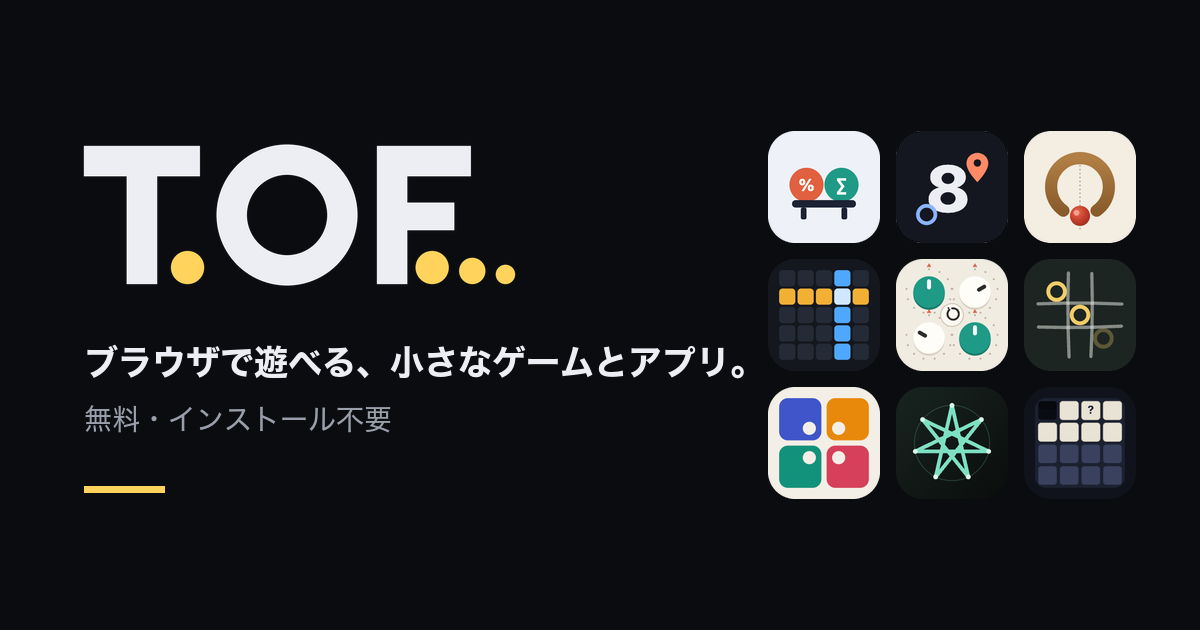
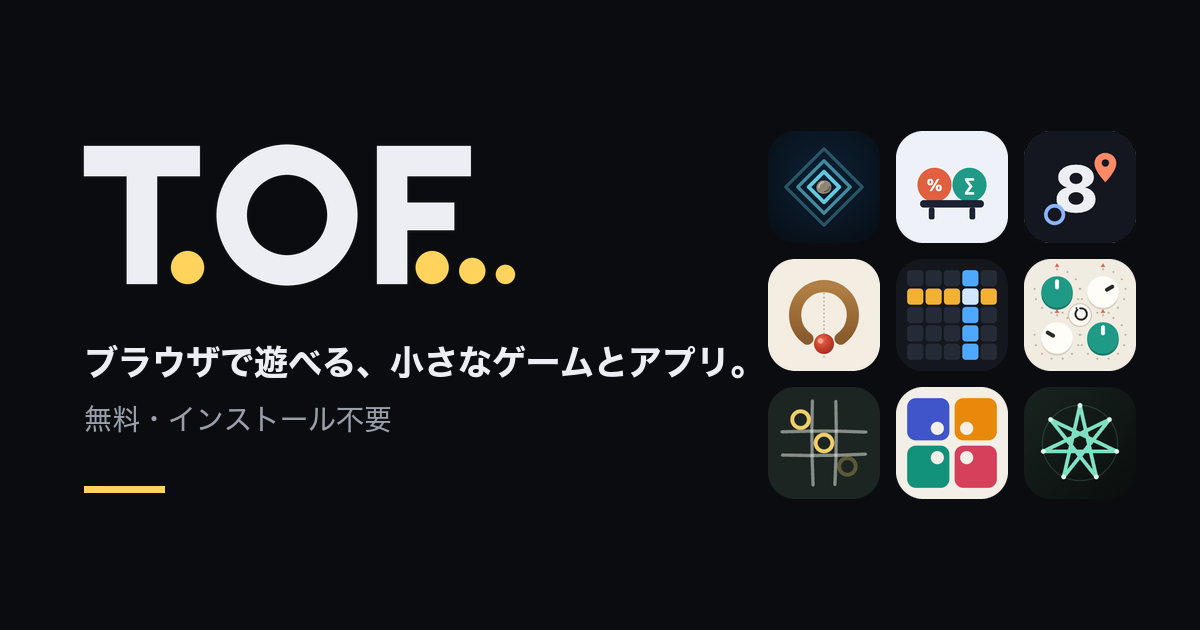
ECHO REEF をポータルに追加する

Changed region(s): [[0.6167, 0.181, 0.9558, 0.8143]]

diff --git a/apps.js b/apps.js
@@ -13,6 +13,16 @@
 
 window.TOFO_APPS = [
   {
+    id: 'echo-reef',
+    name: 'ECHO REEF',
+    title: '鳴らして沈んだ岩を探す',
+    desc: '海の底に沈んだ岩を、マスを鳴らして探す推理パズル。返ってくるのはいちばん近い岩までの距離だけなので、いくつもの音を重ねて、少ない回数で岩の場所を全部当てる。',
+    category: 'game',
+    tags: ['パズル', '今日の海'],
+    icon: '/echo-reef/icons/icon-192.png',
+    color: '#68d2e8',
+  },
+  {
     id: 'number-bench',
     name: 'NUMBER BENCH',
     title: '確率も体感時間も、すぐ計算',
